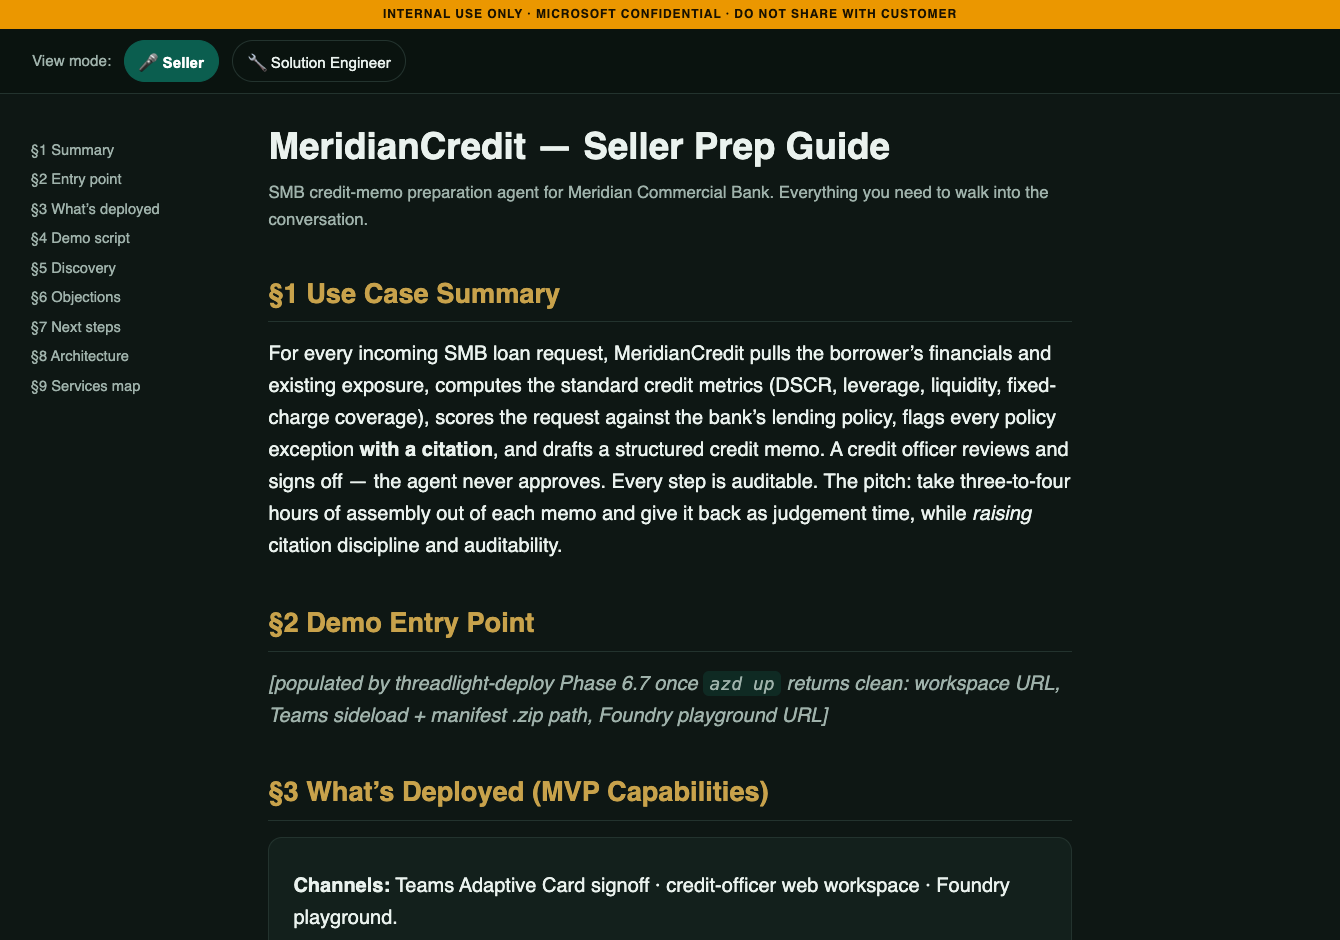
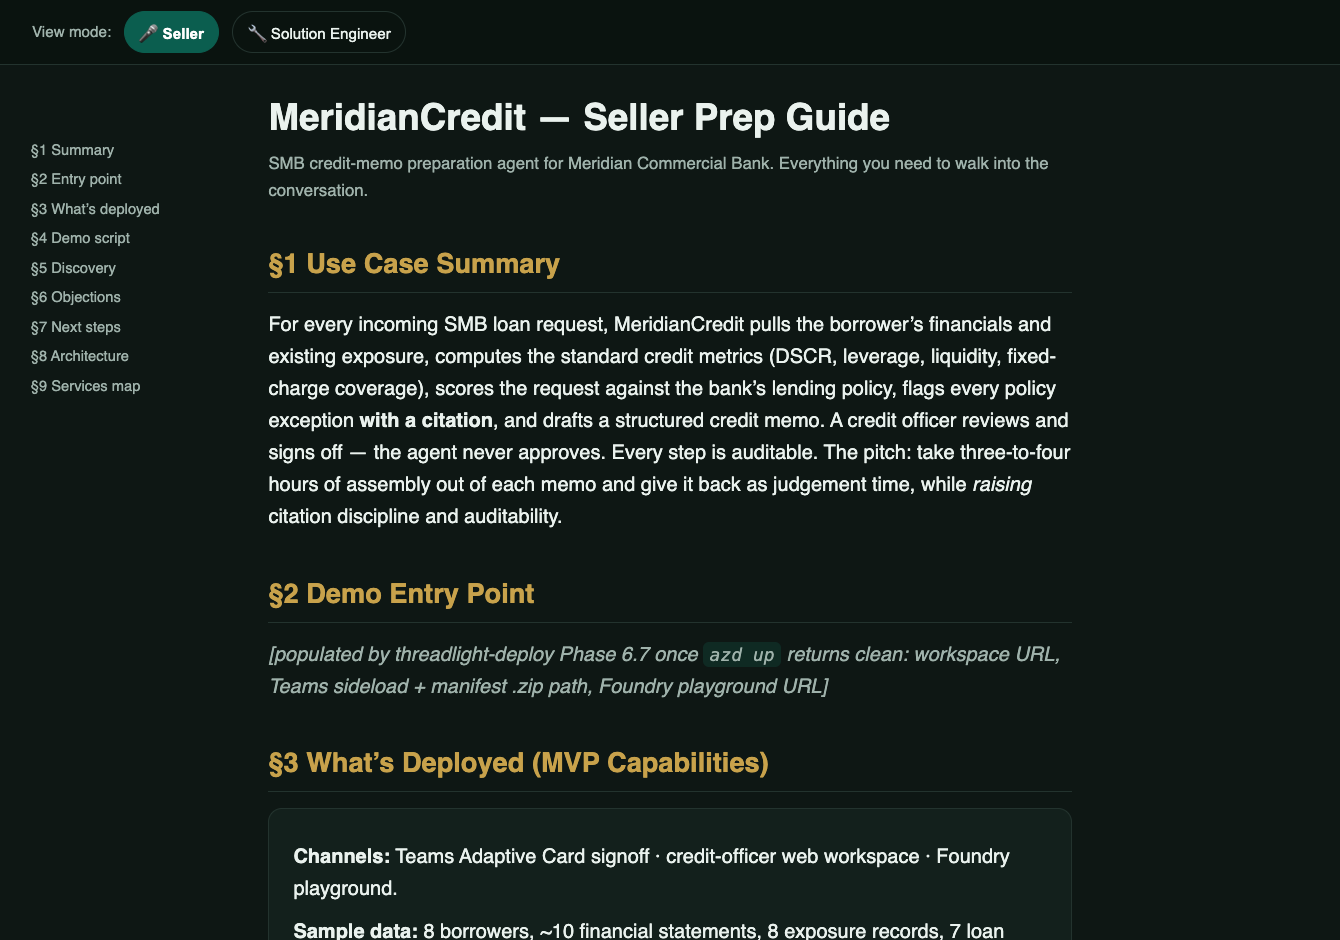
demo: drop internal one-pager and badges from the kit gallery
Remove all Microsoft-internal / confidential material from the public-facing
sales-kit showcase:

- Drop the consumption cost one-pager card and delete its screenshot
  (sales-kit-onepager.png) — it carried a "Microsoft internal — do not share"
  banner and EA pricing assumptions.
- Remove the red "internal" badges from the artifact chrome.
- Re-capture the prep-guide with its "MICROSOFT CONFIDENTIAL · do not share"
  bar hidden, so the screenshot shows only the customer-neutral content.
- Reword the section copy/footnote to drop "internal"/"stamped" framing.
- Collapse the gallery from 3-up to a centered 2-up layout and remove the
  now-unused .kit-badge CSS.

Gallery now shows the customer talk deck and the seller prep-guide, both on
the fictional MeridianCredit sample. Verified desktop/mobile, no console errors.

diff --git a/docs/demo.html b/docs/demo.html
@@ -446,11 +446,12 @@
 
   /* artifact gallery */
   .kit-gallery {
-    margin-top: 28px; display: grid; align-items: start;
-    grid-template-columns: repeat(3, minmax(0, 1fr)); gap: clamp(14px, 1.8vw, 22px);
+    margin-top: 28px; display: grid; align-items: start; margin-inline: auto;
+    grid-template-columns: repeat(2, minmax(0, 1fr)); gap: clamp(16px, 2.2vw, 28px);
+    max-width: 900px;
   }
-  @media (max-width: 900px) {
-    .kit-gallery { grid-template-columns: 1fr; max-width: 540px; margin-inline: auto; }
+  @media (max-width: 760px) {
+    .kit-gallery { grid-template-columns: 1fr; max-width: 540px; }
   }
 
   .kit-shot {
@@ -468,10 +469,6 @@
     flex: 1; font-family: var(--mono); font-size: 11.5px; color: var(--ink-2);
     background: var(--bg-1); border: 1px solid var(--line); border-radius: 6px;
     padding: 3px 10px; text-align: center; white-space: nowrap; overflow: hidden; text-overflow: ellipsis;
-  }
-  .kit-badge {
-    font-family: var(--mono); font-size: 9.5px; letter-spacing: .12em; text-transform: uppercase;
-    color: #fff; background: #9b1c1c; border-radius: 5px; padding: 3px 7px;
   }
   .kit-frame {
     position: relative; aspect-ratio: 16 / 10; overflow: hidden; background: var(--bg-2);
@@ -809,9 +806,8 @@
       <p class="eyebrow reveal"><span class="dot"></span>The kit — generated, not slideware</p>
       <h2 id="kit-h" class="display reveal" data-delay="1">And it writes the kit you <em>walk in with.</em></h2>
       <p class="sub reveal" data-delay="2">
-        The same run doesn’t just ship code. <code>threadlight-design</code> writes a brand-matched
-        <strong>customer talk deck</strong> and an internal <strong>seller prep-guide</strong>, and
-        <code>threadlight-consumption-iq</code> adds a phased <strong>cost one-pager</strong> — real HTML you
+        The same run doesn’t just ship code. <code>threadlight-design</code> also writes a brand-matched
+        <strong>customer talk deck</strong> and a matching <strong>seller prep-guide</strong> — real HTML you
         screen-share, hand off, or print to PDF. Shown here on the fictional <strong>MeridianCredit</strong> bank sample.
       </p>
 
@@ -836,11 +832,10 @@
           <div class="kit-chrome">
             <span class="kit-dots"><span></span><span></span><span></span></span>
             <span class="kit-url">prep-guide.html</span>
-            <span class="kit-badge">internal</span>
           </div>
           <div class="kit-frame">
             <img src="assets/shots/sales-kit-prep-guide.png" loading="lazy" width="1340" height="940"
-                 alt="The internal seller prep-guide: an orange ‘internal use only — do not share with the customer’ bar above a seller / solution-engineer view-mode toggle, a section table of contents, and a use-case summary for the MeridianCredit agent.">
+                 alt="The generated seller prep-guide: a ‘MeridianCredit — Seller Prep Guide’ header with a seller / solution-engineer view-mode toggle, a section table of contents, and a use-case summary for the credit-memo agent.">
           </div>
           <figcaption>
             <b>Seller prep-guide</b>
@@ -848,28 +843,10 @@
             <span class="kit-desc">Use-case summary, demo script, discovery questions, objection handling — with a seller / engineer mode toggle.</span>
           </figcaption>
         </figure>
-
-        <figure class="kit-shot">
-          <div class="kit-chrome">
-            <span class="kit-dots"><span></span><span></span><span></span></span>
-            <span class="kit-url">estimate-onepager.html</span>
-            <span class="kit-badge">internal</span>
-          </div>
-          <div class="kit-frame">
-            <img src="assets/shots/sales-kit-onepager.png" loading="lazy" width="1000" height="947"
-                 alt="The generated seller one-pager: a red ‘Microsoft internal — do not share with the customer’ banner above a phased Azure cost table (Phase 1 $326, Phase 2 $795, Phase 3 $6,804 per month, with an EA estimate column) and a ‘how to open the conversation’ seller talk-track.">
-          </div>
-          <figcaption>
-            <b>Phased cost one-pager</b>
-            <span class="kit-by">threadlight-consumption-iq</span>
-            <span class="kit-desc">A phased Azure estimate with EA framing and a written talk-track — every figure a planning estimate, never a quote.</span>
-          </figcaption>
-        </figure>
       </div>
 
       <p class="kit-foot reveal" data-delay="3">
-        All three come from one run on the fictional <code>credit-memo</code> sample — every figure an estimate,
-        every internal page stamped, nothing customer-specific.
+        Both come from one run on the fictional <code>credit-memo</code> sample — nothing customer-specific.
       </p>
     </div>
   </section>